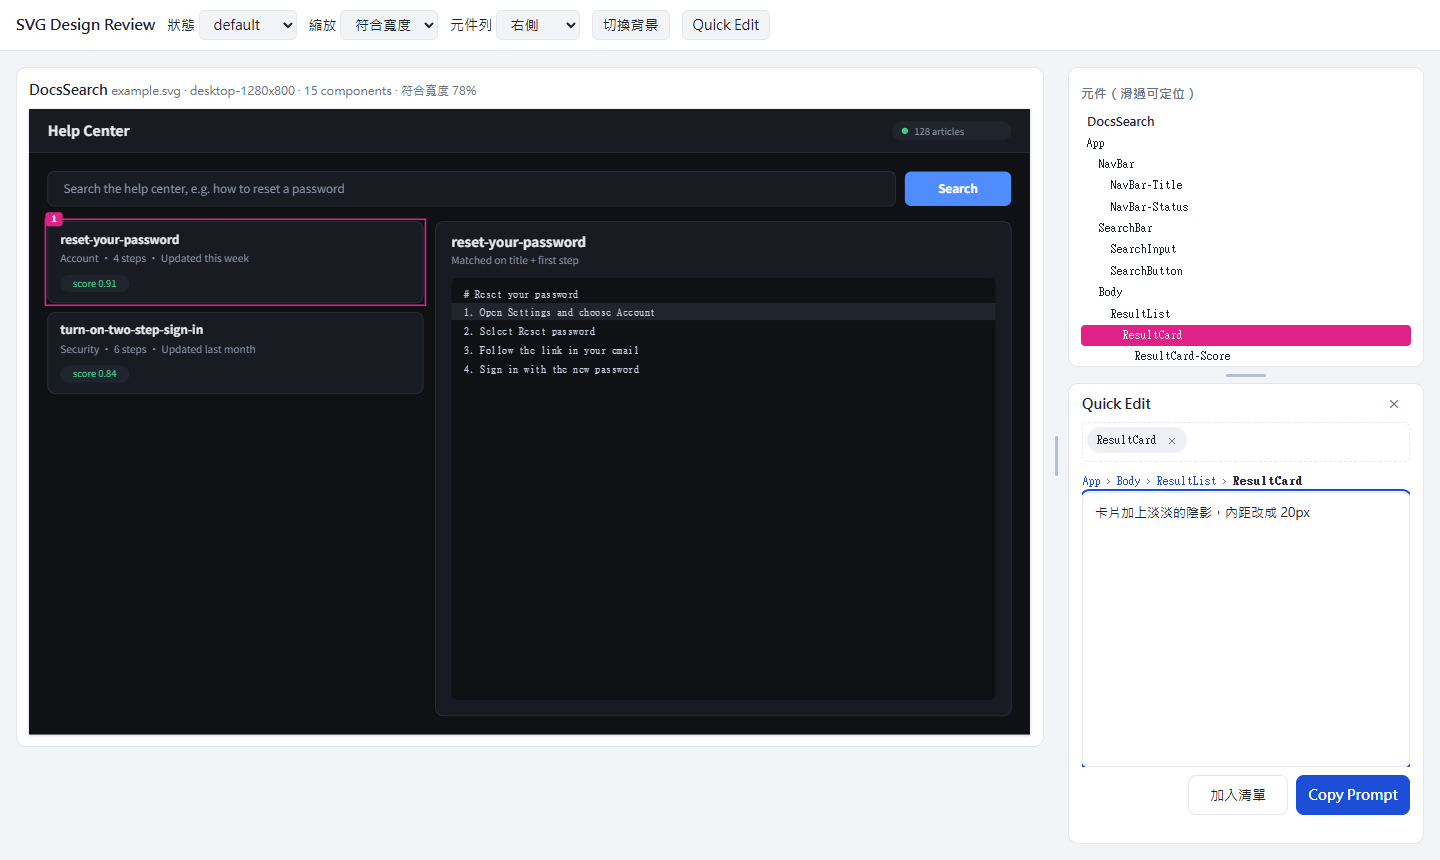
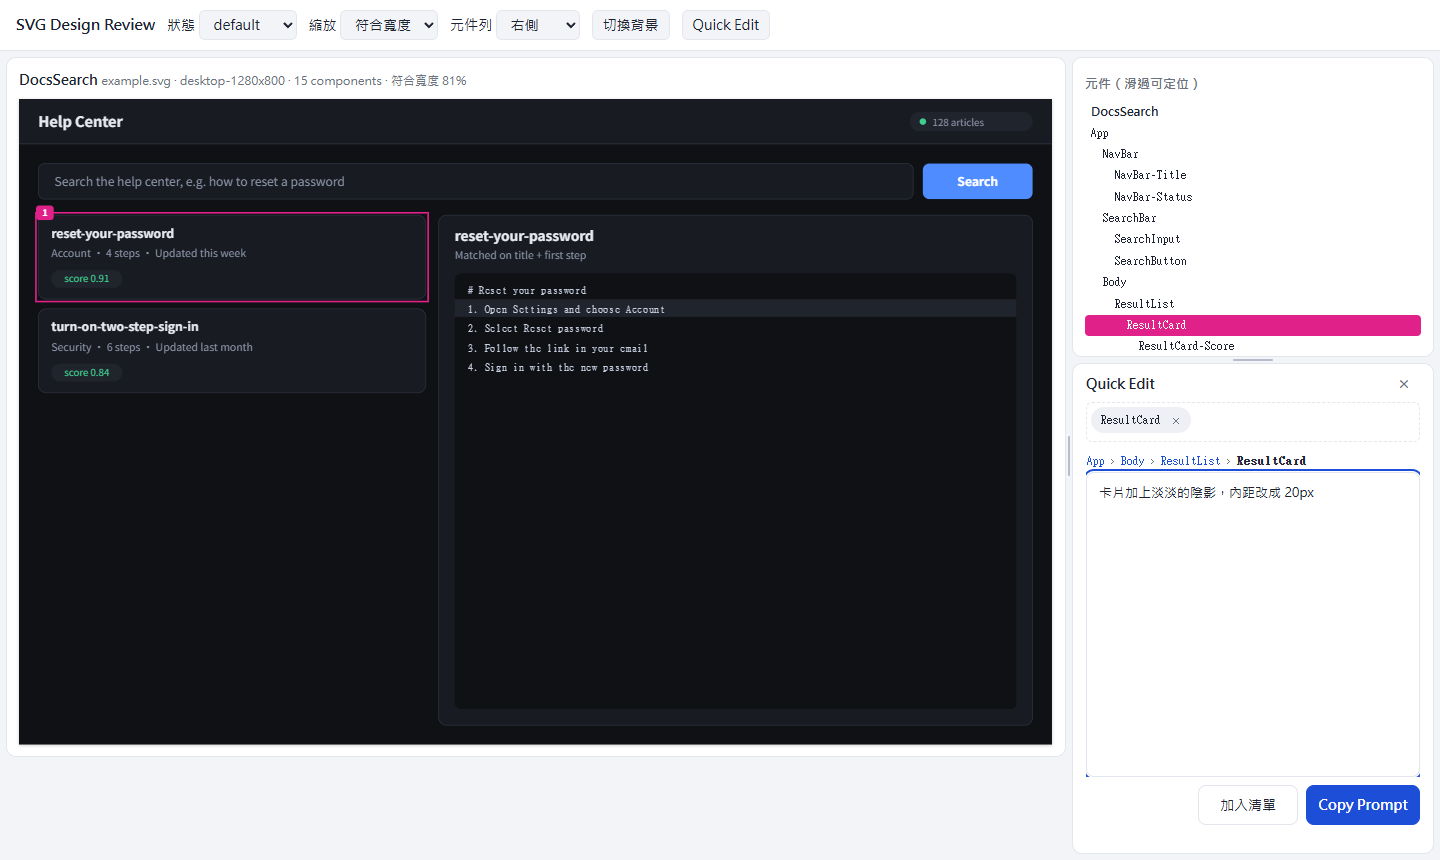
Uniform 6px gutters, thin dividers, colour tokens and palette
Page margin, card gap and both dividers are one 6px gutter. Dividers
show a 2px grip that turns primary on hover; their grab area reaches
4px into the side column. Every colour of the review page is a CSS
token, listed in design/preview-palette.svg. 0.7.2.

Changed region(s): [[0.0, 0.0907, 1.0, 0.8767], [0.8438, 0.8767, 1.0, 0.9674]]

diff --git a/skills/svg-ui-bridge/scripts/svg_preview.py b/skills/svg-ui-bridge/scripts/svg_preview.py
@@ -49,24 +49,30 @@ PAGE = r"""<!doctype html><html lang="zh-Hant"><head><meta charset="utf-8">
 <meta name="viewport" content="width=device-width,initial-scale=1">
 <title>SVG Design Review</title>
 <style>
-:root{--bg:#f3f4f7;--panel:#fff;--text:#1d2230;--muted:#6b7280;--line:#e3e6ec;--hi:#e5484d;--sel:#e0218a;--primary:#1d4ed8;--chip:#eef0f5;--grip:#b6bdcc;--hdr:52px;--side-w:356px;--tree-h:300px;--qe-h:340px}
+/* colour tokens of the review page itself; design/preview-palette.svg lists them */
+:root{--bg:#f3f4f7;--panel:#fff;--text:#1d2230;--muted:#6b7280;--line:#e3e6ec;--hi:#e5484d;--sel:#e0218a;--primary:#1d4ed8;--on-primary:#fff;--chip:#eef0f5;--grip:#b6bdcc;--ok:#16a34a;--tip:#111;--tip-id:#ffb4b4;--gut:6px;--hdr:52px;--side-w:362px;--tree-h:300px;--qe-h:340px}
 :root[data-theme=dark]{--bg:#0b0d11;--panel:#151821;--text:#e8eaf0;--muted:#8b93a7;--line:#262b36;--primary:#4f7dff;--chip:#262b36;--grip:#4a5164}
 *{box-sizing:border-box}body{margin:0;background:var(--bg);color:var(--text);font:14px/1.45 system-ui,"Noto Sans TC",sans-serif}
 header{position:sticky;top:0;z-index:5;display:flex;gap:12px;align-items:center;flex-wrap:wrap;padding:10px 16px;background:var(--panel);border-bottom:1px solid var(--line)}
 header b{font-size:15px}select,button{font:inherit;padding:4px 10px;border:1px solid var(--line);border-radius:6px;background:var(--bg);color:var(--text);cursor:pointer}
-.live{font-size:12px;color:#16a34a}
+.live{font-size:12px;color:var(--ok)}
 /* desktop: design on one side, a column with the tree above Quick Edit on the other; nothing floats */
-.wrap{display:flex;padding:16px;height:calc(100vh - var(--hdr));min-height:0}.wrap.side-left{flex-direction:row-reverse}
-main{flex:1;min-width:0;overflow:auto;display:flex;flex-direction:column;gap:20px}
-.split-v{flex:none;width:24px;cursor:col-resize;display:grid;place-items:center;touch-action:none}.split-v::before{content:"";width:3px;height:40px;border-radius:2px;background:var(--grip)}
-.split-h{flex:none;height:16px;cursor:row-resize;display:grid;place-items:center;touch-action:none}.split-h::before{content:"";width:40px;height:3px;border-radius:2px;background:var(--grip)}
+.wrap{display:flex;padding:var(--gut);height:calc(100vh - var(--hdr));min-height:0}.wrap.side-left{flex-direction:row-reverse}
+main{flex:1;min-width:0;overflow:auto;display:flex;flex-direction:column;gap:var(--gut)}
+/* dividers are one gutter wide with a 2px grip; the grab area reaches 4px further into the side column
+   (never over the design pane's scrollbar) */
+.split-v,.split-h{flex:none;position:relative;display:grid;place-items:center;touch-action:none}
+.split-v{width:var(--gut);cursor:col-resize}.split-v::before{content:"";width:2px;height:40px;border-radius:1px;background:var(--grip)}
+.split-h{height:var(--gut);cursor:row-resize}.split-h::before{content:"";width:40px;height:2px;border-radius:1px;background:var(--grip)}
+.split-v::after,.split-h::after{content:"";position:absolute;z-index:1;inset:0}.split-v::after{right:-4px}.wrap.side-left .split-v::after{right:0;left:-4px}.split-h::after{bottom:-4px}
+.split-v:hover::before,.split-h:hover::before,.split-v.drag::before,.split-h.drag::before{background:var(--primary)}
 .split-v:focus-visible,.split-h:focus-visible{outline:2px solid var(--primary);outline-offset:-2px;border-radius:4px}
 #side{flex:none;width:var(--side-w);min-width:0;display:flex;flex-direction:column;min-height:0}
 aside{flex:0 0 var(--tree-h);min-height:80px;overflow:auto;background:var(--panel);border:1px solid var(--line);border-radius:10px;padding:12px}
 #side.no-qe aside{flex:1 1 auto}#side.no-qe .split-h,#side.no-tree aside,#side.no-tree .split-h{display:none}
 .wrap.side-hidden #side,.wrap.side-hidden .split-v{display:none}
 aside h3{margin:4px 0 8px;font-size:13px;color:var(--muted)}aside li{list-style:none;padding:2px 6px;border-radius:4px;cursor:default;font-family:ui-monospace,monospace;font-size:12px}
-aside li:hover,aside li.on{background:var(--hi);color:#fff}aside li.sel{background:var(--sel);color:#fff}aside ul{margin:0;padding:0}
+aside li:hover,aside li.on{background:var(--hi);color:var(--on-primary)}aside li.sel{background:var(--sel);color:var(--on-primary)}aside ul{margin:0;padding:0}
 .card{background:var(--panel);border:1px solid var(--line);border-radius:10px;padding:12px;overflow:auto;flex:none}
 .card h2{margin:0 0 8px;font-size:14px}.card .meta{color:var(--muted);font-size:12px;font-weight:400}
 .stage{transform-origin:0 0;width:max-content;user-select:none;-webkit-user-select:none}
@@ -81,10 +87,10 @@ body.dragging{user-select:none;-webkit-user-select:none}body.dragging iframe{poi
 #qeCrumbs{display:flex;flex-wrap:wrap;align-items:center;font:12px ui-monospace,monospace;color:var(--muted);margin-bottom:2px;flex:none}#qeCrumbs button{padding:2px 1px;border:0;background:none;color:var(--primary);font:inherit}#qeCrumbs button[aria-current]{color:var(--text);font-weight:700}#qeCrumbs i{font-style:normal;padding:0 4px}
 #qeText,#qeManual{display:block;width:100%;min-height:100px;padding:10px 12px;resize:none;border:1px solid var(--line);border-radius:8px;background:var(--panel);color:var(--text);font:13px/1.45 system-ui,"Noto Sans TC",sans-serif}#qeText{flex:1}
 #qeManual{display:none;flex:none;margin-top:8px;resize:vertical;font-family:ui-monospace,monospace;font-size:12px}#qeManual.on{display:block}
-.qe-actions{flex:none;display:flex;flex-wrap:wrap;align-items:center;gap:8px;margin-top:8px}#qeCount{margin-right:auto;font-size:12px;color:var(--muted)}#qeStatus{font-size:12px;font-weight:600;color:#16a34a}
-.qe-actions button{min-height:40px;padding:0 10px;border-radius:8px;background:var(--panel)}#qeQueue{min-width:100px}#qeCopy{min-width:114px}.qe-actions button.primary{border-color:var(--primary);background:var(--primary);color:#fff;font-weight:600}
-#tip{position:fixed;pointer-events:none;z-index:9;background:#111;color:#fff;font-size:12px;padding:6px 8px;border-radius:6px;max-width:320px;display:none}
-#tip code{color:#ffb4b4}
+.qe-actions{flex:none;display:flex;flex-wrap:wrap;align-items:center;gap:8px;margin-top:8px}#qeCount{margin-right:auto;font-size:12px;color:var(--muted)}#qeStatus{font-size:12px;font-weight:600;color:var(--ok)}
+.qe-actions button{min-height:40px;padding:0 10px;border-radius:8px;background:var(--panel)}#qeQueue{min-width:100px}#qeCopy{min-width:114px}.qe-actions button.primary{border-color:var(--primary);background:var(--primary);color:var(--on-primary);font-weight:600}
+#tip{position:fixed;pointer-events:none;z-index:9;background:var(--tip);color:var(--on-primary);font-size:12px;padding:6px 8px;border-radius:6px;max-width:320px;display:none}
+#tip code{color:var(--tip-id)}
 /* narrow: no tree; the design pane on top and Quick Edit below share the window height */
 @media (max-width:800px){.wrap,.wrap.side-left{flex-direction:column}.split-v,#side aside,#sidePosLabel{display:none!important}
   #side{width:auto;flex:0 0 var(--qe-h)}#qe{min-height:0}#qeText{min-height:60px}
@@ -112,7 +118,8 @@ body.dragging{user-select:none;-webkit-user-select:none}body.dragging iframe{poi
 const DATA = __DATA__;
 const LIVE = __LIVE__;
 const $=id=>document.getElementById(id),main=$('main'),tree=$('tree'),tip=$('tip'),qe=$('qe'),qeText=$('qeText'),qeManual=$('qeManual'),rootEl=document.documentElement;
-const MARK='#e0218a',HOVER='#e5484d',MIN_DRAG=4,EDGE=2,WIDTHS=['','1280','768','390'],picked=[];
+/* marks are drawn inside the drafts, where the page's CSS variables do not reach, so read the tokens once */
+const tok=n=>getComputedStyle(document.documentElement).getPropertyValue(n).trim(),MARK=tok('--sel'),HOVER=tok('--hi'),ON=tok('--on-primary'),MIN_DRAG=4,EDGE=2,WIDTHS=['','1280','768','390'],picked=[];
 const states=new Set(['default']),roots=[];let queue=[],dragging=null,skipClick=false,statusTimer=0,cur=null,curBox=null;
 /* a root is one reviewable canvas: an SVG in a shadow root, or one HTML [data-screen] in a script-free iframe */
 function card(title){const c=document.createElement('section');c.className='card';c.innerHTML='<h2></h2><div class="stage"></div>';
@@ -184,12 +191,12 @@ function fromFrame(r,e){const f=r.frame.getBoundingClientRect(),k=frameScale(r);
 function svgEl(tag,attrs){const e=document.createElementNS('http://www.w3.org/2000/svg',tag);for(const[k,v]of Object.entries(attrs))e.setAttribute(k,v);return e;}
 function htmlMark(r,box,color,dashed,label){const s=r.screen.getBoundingClientRect(),w=r.doc.defaultView,d=r.doc.createElement('div');
   d.style.cssText=`position:absolute;left:${s.left+w.scrollX+box[0]-3}px;top:${s.top+w.scrollY+box[1]-3}px;width:${box[2]+6}px;height:${box[3]+6}px;box-sizing:border-box;border:2px ${dashed?'dashed':'solid'} ${color};pointer-events:none;z-index:2147483647`;
-  if(label){const t=r.doc.createElement('span');t.textContent=label;t.style.cssText=`position:absolute;left:-12px;top:-12px;min-width:22px;height:18px;border-radius:4px;background:${MARK};color:#fff;font:700 11px/18px system-ui,sans-serif;text-align:center`;d.appendChild(t);}return d;}
+  if(label){const t=r.doc.createElement('span');t.textContent=label;t.style.cssText=`position:absolute;left:-12px;top:-12px;min-width:22px;height:18px;border-radius:4px;background:${MARK};color:${ON};font:700 11px/18px system-ui,sans-serif;text-align:center`;d.appendChild(t);}return d;}
 function layer(r){if(r.kind==='svg'){let o=r.svg.querySelector(':scope>.qe-marks');if(!o){o=svgEl('g',{class:'qe-marks','pointer-events':'none'});r.svg.appendChild(o);}return o;}
   let o=r.doc.getElementById('__qe_marks');if(!o){o=r.doc.createElement('div');o.id='__qe_marks';r.doc.body.appendChild(o);}return o;}
 function outline(r,box,dashed,label){if(r.kind==='html')return [htmlMark(r,box,MARK,dashed,label)];
   const out=[svgEl('rect',Object.assign({x:box[0]-3,y:box[1]-3,width:box[2]+6,height:box[3]+6,fill:'none',stroke:MARK,'stroke-width':2},dashed?{'stroke-dasharray':'7 4'}:{}))];
-  if(label){const t=svgEl('text',{x:box[0]+8,y:box[1]+1,'font-size':11,'font-weight':700,'text-anchor':'middle',fill:'#fff'});t.textContent=label;out.push(svgEl('rect',{x:box[0]-3,y:box[1]-12,width:22,height:18,rx:4,fill:MARK}),t);}return out;}
+  if(label){const t=svgEl('text',{x:box[0]+8,y:box[1]+1,'font-size':11,'font-weight':700,'text-anchor':'middle',fill:ON});t.textContent=label;out.push(svgEl('rect',{x:box[0]-3,y:box[1]-12,width:22,height:18,rx:4,fill:MARK}),t);}return out;}
 function draw(){roots.forEach(r=>{if(r.kind==='svg'?!r.svg:!r.screen)return;const o=layer(r);o.replaceChildren();
     picked.forEach((i,n)=>{if(i.root===r)o.append(...outline(r,itemBox(i),!i.g,String(n+1)));});});
   document.querySelectorAll('#tree li[data-id]').forEach(li=>li.classList.toggle('sel',picked.some(i=>i.id===li.dataset.id&&roots.indexOf(i.root)===+li.dataset.root)));}
@@ -297,13 +304,13 @@ function onKey(e){if(!qe.classList.contains('open'))return;if(e.key==='Escape')c
 addEventListener('keydown',onKey);
 /* side column: position, width, tree height and the narrow Quick Edit height are remembered in this browser */
 const wrap=$('wrap'),side=$('side'),sidePos=$('sidePos'),PREFS='svgui.layout';
-let prefs={pos:'right',w:356,treeH:300,qeH:340};
+let prefs={pos:'right',w:362,treeH:300,qeH:340};
 try{Object.assign(prefs,JSON.parse(localStorage.getItem(PREFS)||'{}'));}catch(e){}
 if(!['right','left','none'].includes(prefs.pos))prefs.pos='right';
 function storePrefs(){try{localStorage.setItem(PREFS,JSON.stringify(prefs));}catch(e){}}
 function clampW(w){return Math.round(Math.max(240,Math.min(w,wrap.clientWidth*0.6)));}
 function clampH(h){return Math.round(Math.max(80,Math.min(h,side.clientHeight-(qe.classList.contains('open')?252:0))));}
-function clampQ(h){return Math.round(Math.max(200,Math.min(h,wrap.clientHeight-32-16-120)));}
+function clampQ(h){return Math.round(Math.max(200,Math.min(h,wrap.clientHeight-18-120)));}
 function layout(){const open=qe.classList.contains('open');rootEl.style.setProperty('--hdr',document.querySelector('header').offsetHeight+'px');
   wrap.classList.toggle('side-left',prefs.pos==='left');wrap.classList.toggle('side-hidden',(prefs.pos==='none'||narrow())&&!open);
   side.classList.toggle('no-tree',prefs.pos==='none');side.classList.toggle('no-qe',!open);sidePos.value=prefs.pos;
@@ -311,9 +318,9 @@ function layout(){const open=qe.classList.contains('open');rootEl.style.setPrope
   applyZoom();draw();}
 sidePos.onchange=()=>{prefs.pos=sidePos.value;storePrefs();layout();};
 /* sizes follow the pointer's movement since it went down, so grabbing the splitter anywhere never jumps */
-function dragSplit(el,onMove){el.addEventListener('pointerdown',e=>{if(e.button)return;e.preventDefault();el.setPointerCapture(e.pointerId);document.body.classList.add('dragging');
+function dragSplit(el,onMove){el.addEventListener('pointerdown',e=>{if(e.button)return;e.preventDefault();el.setPointerCapture(e.pointerId);document.body.classList.add('dragging');el.classList.add('drag');
     const start={x:e.clientX,y:e.clientY,w:side.getBoundingClientRect().width,h:$('side').querySelector('aside').getBoundingClientRect().height,q:side.getBoundingClientRect().height};
-    const move=ev=>{onMove(ev,start);layout();},up=()=>{el.removeEventListener('pointermove',move);el.removeEventListener('pointerup',up);el.removeEventListener('pointercancel',up);document.body.classList.remove('dragging');storePrefs();};
+    const move=ev=>{onMove(ev,start);layout();},up=()=>{el.removeEventListener('pointermove',move);el.removeEventListener('pointerup',up);el.removeEventListener('pointercancel',up);document.body.classList.remove('dragging');el.classList.remove('drag');storePrefs();};
     el.addEventListener('pointermove',move);el.addEventListener('pointerup',up);el.addEventListener('pointercancel',up);});}
 dragSplit($('splitV'),(e,s)=>{prefs.w=clampW(s.w+(prefs.pos==='left'?e.clientX-s.x:s.x-e.clientX));});
 /* wide: the splitter sets the tree height; narrow: it sits above Quick Edit and sets its height */

diff --git a/tests/test_quick_edit.py b/tests/test_quick_edit.py
@@ -275,6 +275,16 @@ def test_responsive(browser, url: str, port: int) -> None:
     page.wait_for_timeout(150)
     check("selected items scroll with the mouse wheel", grows and page.evaluate("document.getElementById('qeChips').scrollTop") > 0)
 
+    m, sv, sd, a, sh, q = (rect(page, k) for k in ("main", "#splitV", "#side", "aside", "#splitH", "#qe"))
+    gaps = [m["x"], sd["x"] - m["right"], 1280 - sd["right"], m["y"] - rect(page, "header")["bottom"], q["y"] - a["bottom"],
+            800 - q["bottom"], sv["w"], sh["h"]]
+    check("page margin, dividers and gaps are all 6px", all(abs(g - 6) <= 0.5 for g in gaps), gaps)
+    hit = page.evaluate(f"document.elementFromPoint({sd['x'] + 2}, {sv['y'] + sv['h'] / 2}).id")
+    check("the divider can be grabbed 2px inside the side column", hit == "splitV", hit)
+    hit = page.evaluate(f"document.elementFromPoint({m['right'] - 2}, {sv['y'] + sv['h'] / 2}).id")
+    check("the grab area stays off the design pane", hit != "splitV", hit)
+    check("marks use the page tokens", page.evaluate("MARK === getComputedStyle(document.documentElement).getPropertyValue('--sel').trim()"))
+
     w0, h0 = rect(page, "#side")["w"], rect(page, "aside")["h"]
     drag(page, "#splitV", -120, 0)
     drag(page, "#splitH", 0, 60)
@@ -311,7 +321,7 @@ def test_responsive(browser, url: str, port: int) -> None:
         check(f"{w}x{h} hides the tree and its position menu",
               not rect(page, "aside")["shown"] and not rect(page, "#sidePosLabel")["shown"])
         check(f"{w}x{h} design pane fills the window while Quick Edit is closed",
-              not rect(page, "#side")["shown"] and abs(rect(page, "main")["bottom"] - (h - 16)) <= 2, rect(page, "main"))
+              not rect(page, "#side")["shown"] and abs(rect(page, "main")["bottom"] - (h - 6)) <= 2, rect(page, "main"))
         stage, card = rect(page, ".stage"), rect(page, ".card")
         check(f"{w}x{h} fit scales the design down to the card instead of reflowing it",
               stage["right"] <= card["right"] and page.evaluate("getComputedStyle(document.querySelector('.stage')).transform") != "none",
@@ -334,7 +344,7 @@ def test_responsive(browser, url: str, port: int) -> None:
         check(f"{w}x{h} Quick Edit height survives a reload", abs(rect(page, "#side")["h"] - (q0 + 60)) <= 1, rect(page, "#side"))
         page.keyboard.press("Escape")
         check(f"{w}x{h} Esc gives the design the full height back",
-              not rect(page, "#side")["shown"] and abs(rect(page, "main")["bottom"] - (h - 16)) <= 2)
+              not rect(page, "#side")["shown"] and abs(rect(page, "main")["bottom"] - (h - 6)) <= 2)
         ctx.close()
 
     ctx = browser.new_context(viewport={"width": 1280, "height": 800})

diff --git a/skills/svg-ui-bridge/SKILL.md b/skills/svg-ui-bridge/SKILL.md
@@ -5,7 +5,7 @@ description: Use for any change to what a user sees, such as screens, components
 
 # svg-ui-bridge
 
-Version: 0.7.1
+Version: 0.7.2
 
 A rendered draft is the shared language between the human's visual intent and the agent's code:
 the human judges a picture, the agent reads named, layered, tokenised markup. Iterate on the

diff --git a/docs/zh-TW/workflow.md b/docs/zh-TW/workflow.md
@@ -2,7 +2,7 @@
 
 [English](../../skills/svg-ui-bridge/SKILL.md)
 
-版本：0.7.1
+版本：0.7.2
 
 ![工作流程圖：四個階段與每一步執行的程式](../images/diagram-flow.zh-TW.png)
 
